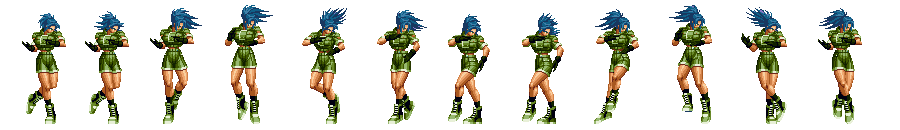
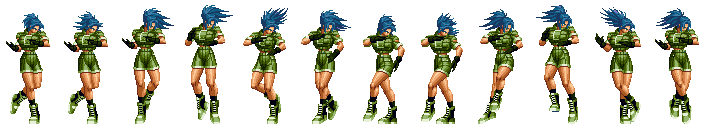
Completed animation!

diff --git a/animator.js b/animator.js
@@ -1,0 +1,30 @@
+class Animator {
+    constructor(spriteSheet, xStart, yStart, width, height, frameCount, frameDuration) {
+        Object.assign(this, {spriteSheet, xStart, yStart, width, height, frameCount, frameDuration});
+
+        this.elapsedTime = 0;
+        this.totalTime = frameCount * frameDuration;
+    };
+
+    drawFrame(tick, ctx, x, y) {
+        this.elapsedTime += tick;
+        if (this.elapsedTime > this.totalTime) this.elapsedTime -= this.totalTime;
+        const frame = this.currentFrame();
+
+        ctx.drawImage(this.spriteSheet,
+            this.xStart + this.width * frame, this.yStart,
+            this.width, this.height,
+            x, y,
+            this.width*3, this.height*3);
+
+    };
+
+    currentFrame() {
+        return Math.floor(this.elapsedTime / this.frameDuration);
+
+    };
+
+    isDone() {
+        return (this.elapsedTime >= this.totalTime);
+    };
+}

diff --git a/leona.js b/leona.js
@@ -1,13 +1,20 @@
 class Leona {
-    constructor() {
+    constructor(game) {
+        this.game = game;
+        this.animator = new Animator(ASSET_MANAGER.getAsset("./Leona.png"), 0, 0, 59, 130, 12, 1/10);
 
+        this.x = 0;
+        this.y = 0;
+        this.speed = 260;
     };
 
     update() {
+    this.x += this.speed*this.game.clockTick;
+    if (this.x > 1024 - 59*2) this.x = 0;
 
     };
 
     draw(ctx) {
-      ctx.drawImage(ASSET_MANAGER.getAsset("./Leona.png"), 0.0);
+      this.animator.drawFrame(this.game.clockTick, ctx, this.x, this.y);
     };
 }

diff --git a/index.html b/index.html
@@ -10,6 +10,7 @@
     <script type="text/javascript" src="./gameengine.js"></script>
     <script type="text/javascript" src="./util.js"></script>
     <script type="text/javascript" src="./leona.js"></script>
+    <script type="text/javascript" src="./animator.js"></script>
     <script type="text/javascript" src="./main.js"></script>
 </head>
 <body>

diff --git a/main.js b/main.js
@@ -8,9 +8,9 @@ ASSET_MANAGER.downloadAll(() => {
 	const canvas = document.getElementById("gameWorld");
 	const ctx = canvas.getContext("2d");
 
-
+	gameEngine.addEntity(new Leona(gameEngine));
 
 	gameEngine.init(ctx);
-	gameEngine.addEntity(new Leona());
+
 	gameEngine.start();
 });
